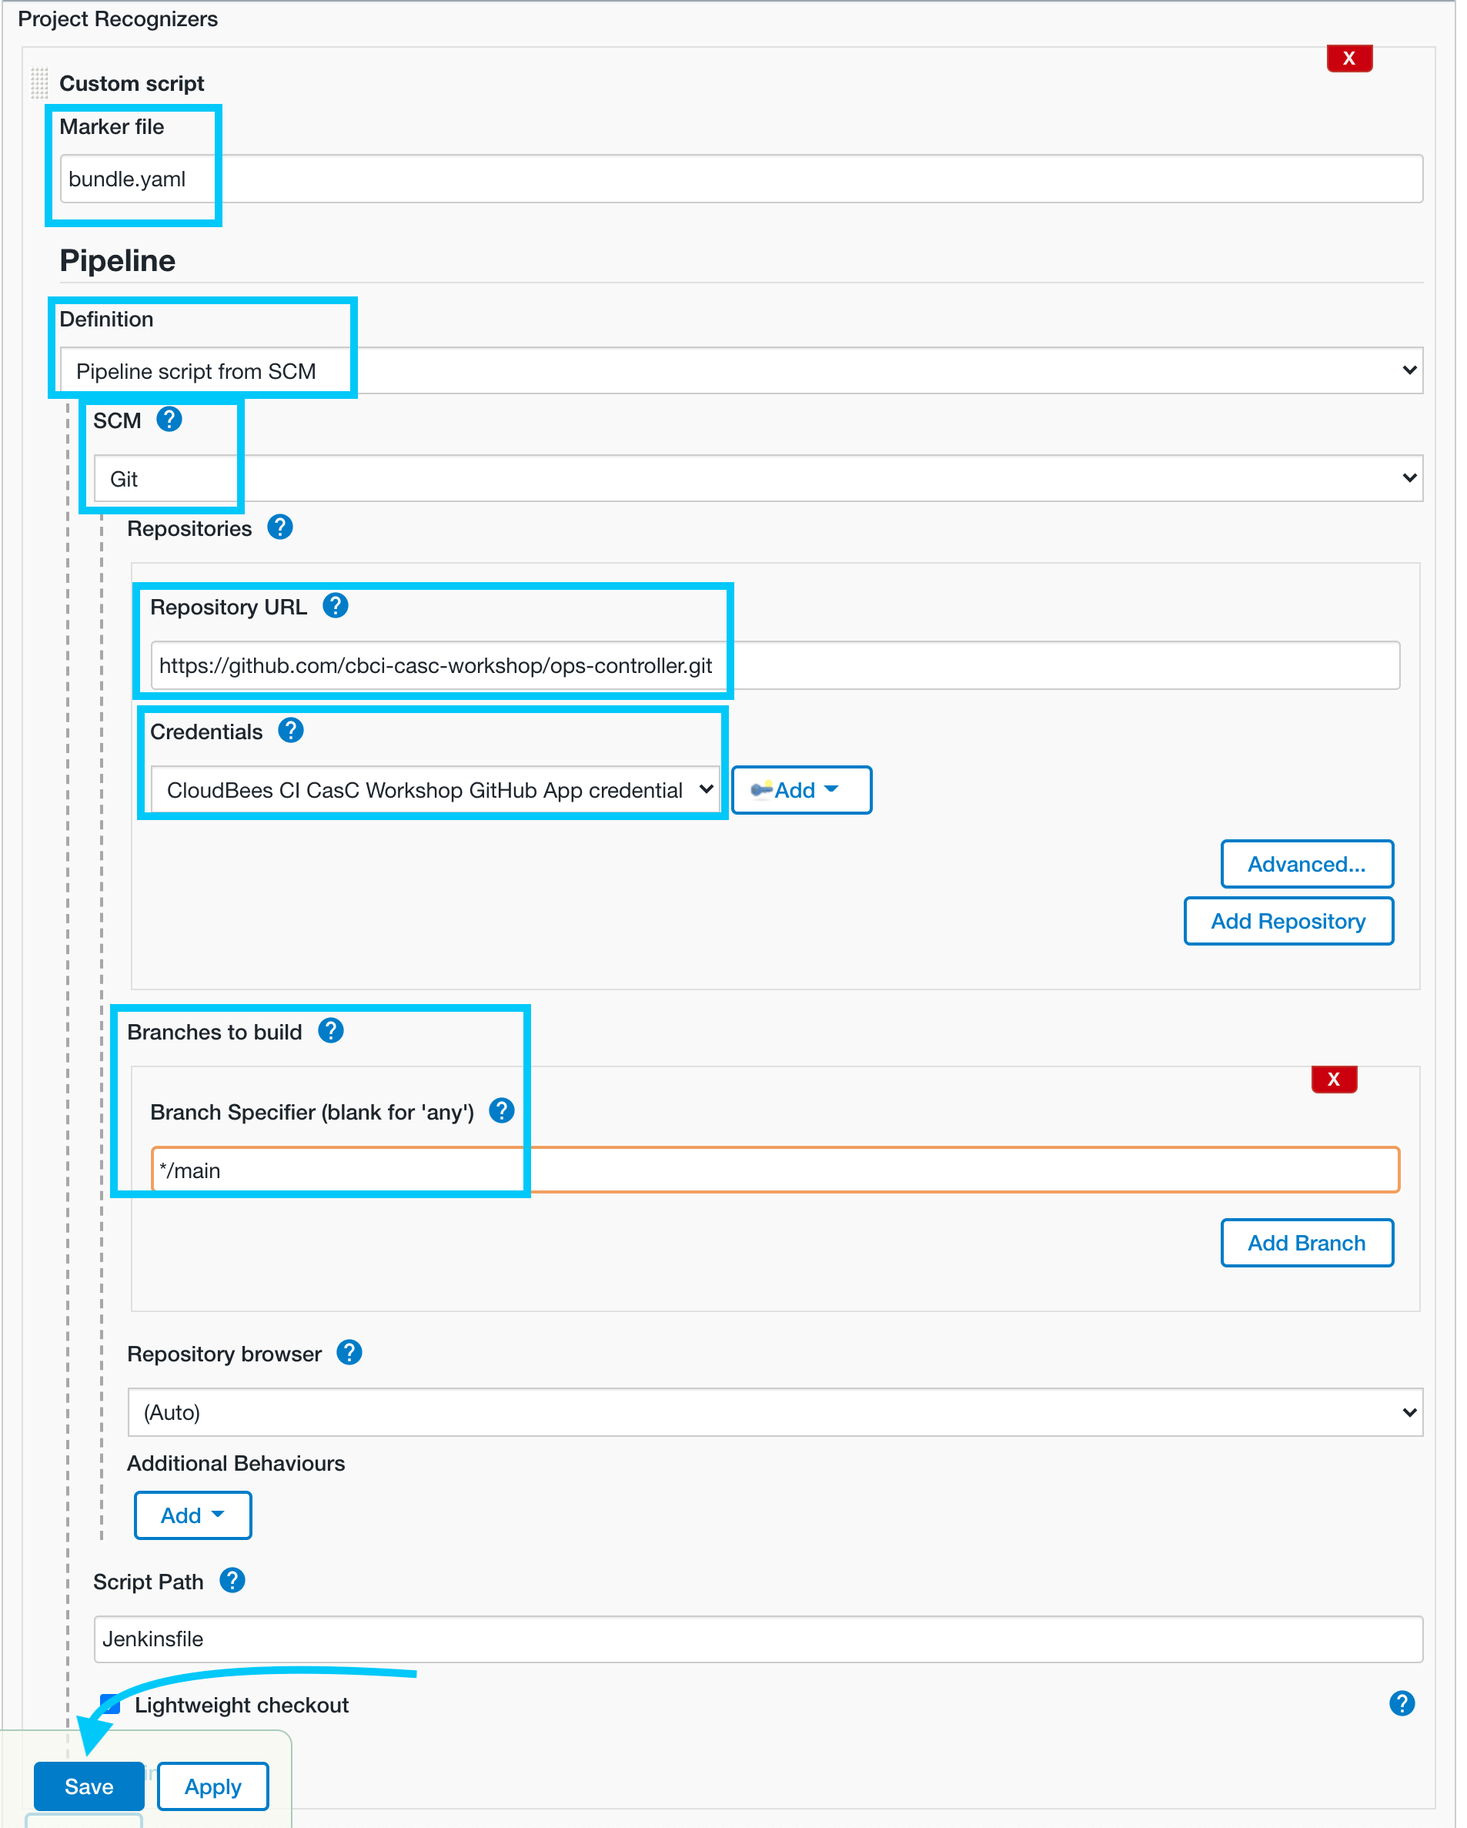
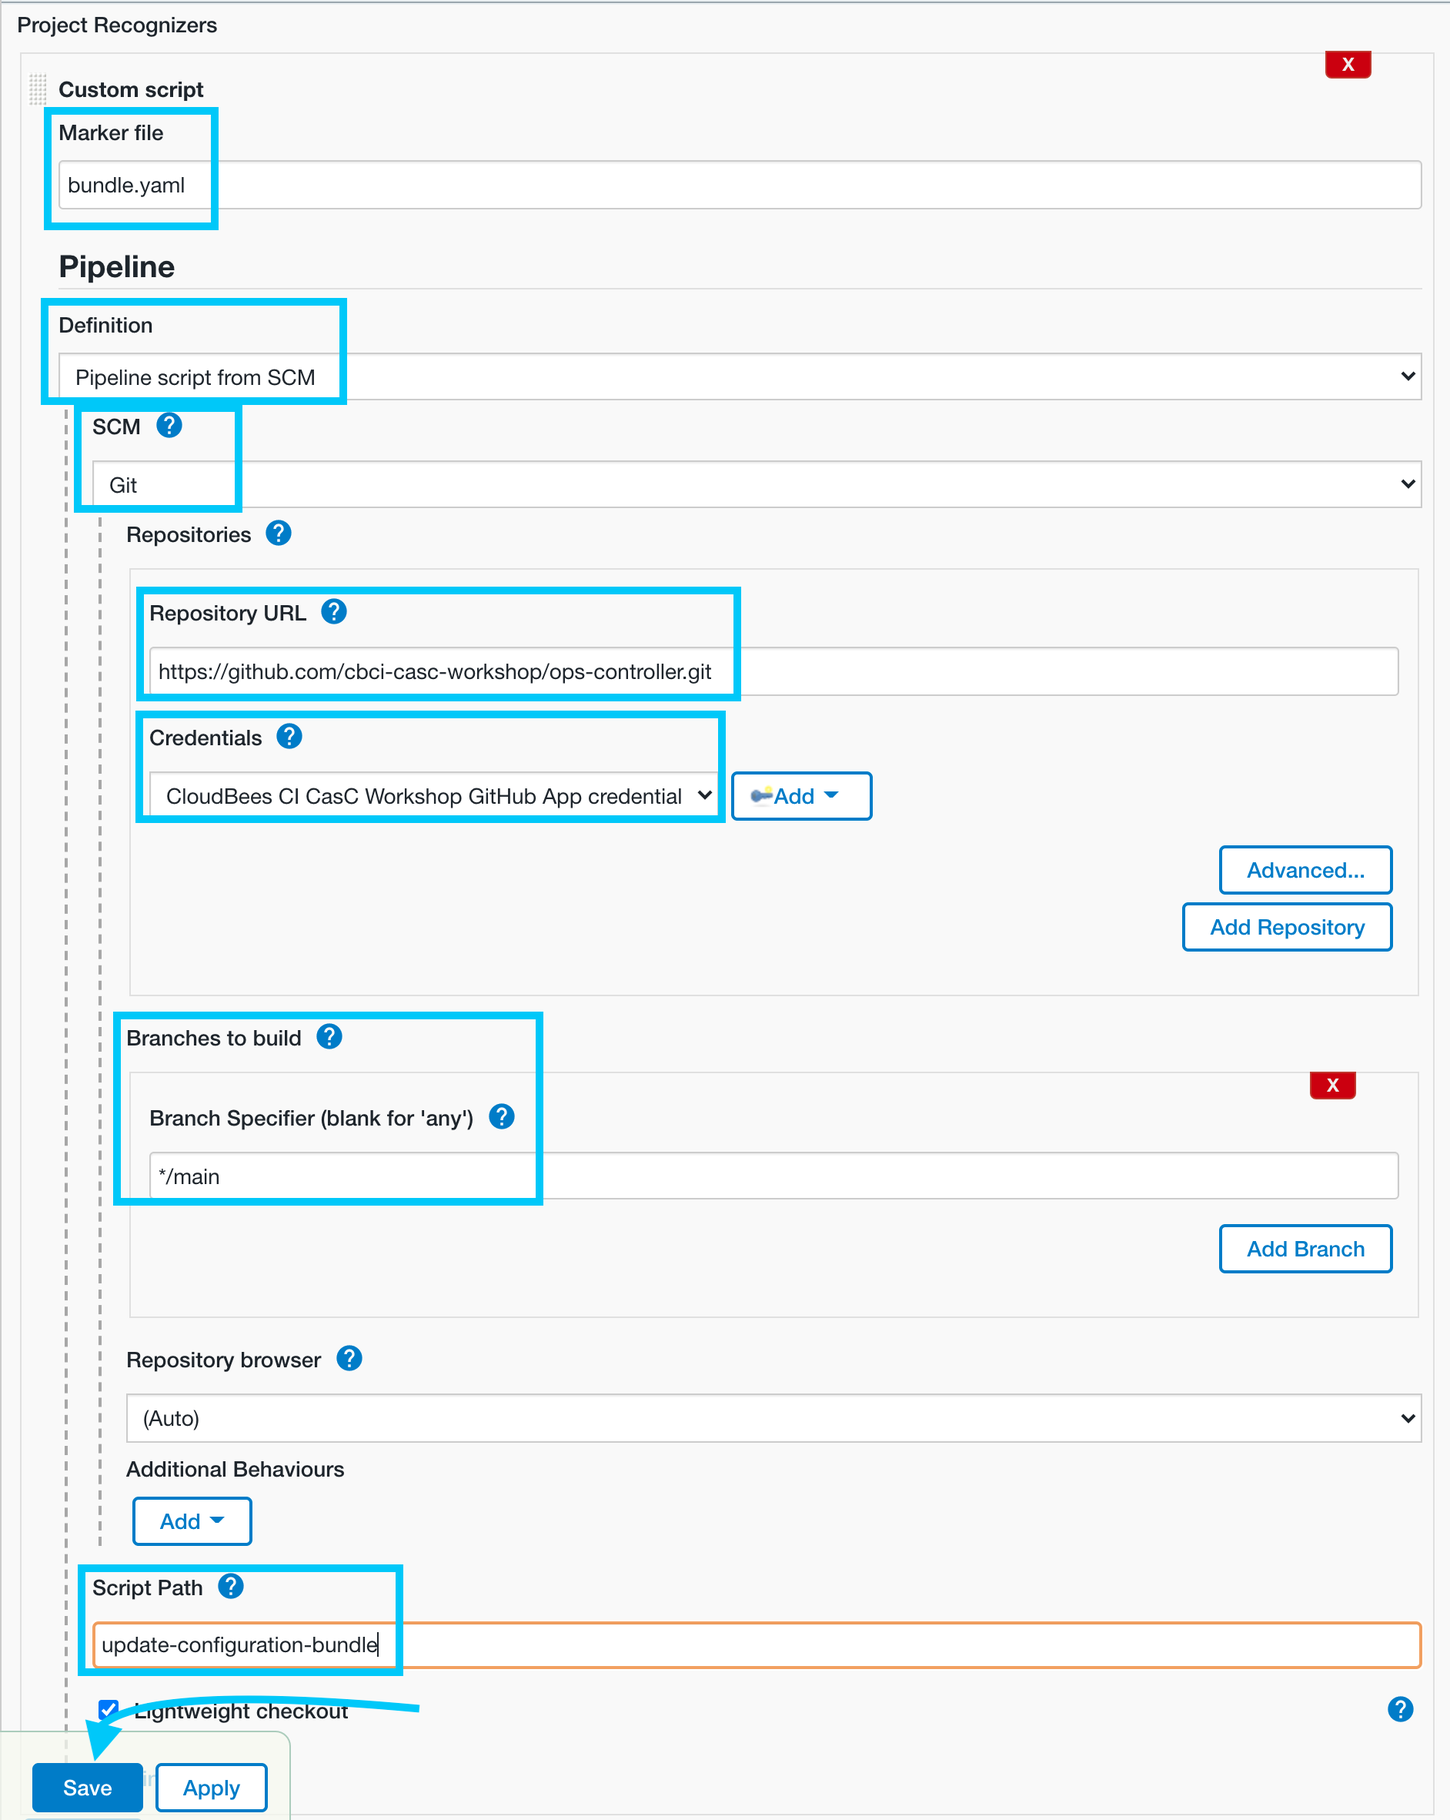
updates for advance comp lab

diff --git a/labs/cloudbees-ci-casc/content/labs/bundle-management.md b/labs/cloudbees-ci-casc/content/labs/bundle-management.md
@@ -32,11 +32,11 @@ This lab will provide an overview of how configuration bundles are managed via t
 
 ## GitOps for CloudBees CI Configuration Bundles
 
-In this lab we will create a Jenkins Pipeline to automatically update our controllers' configuration bundles whenever any changes are committed to the GitHub branch for the controller's configuration bundle.
+In this lab we will create a Jenkins Pipeline to automatically update our controllers' configuration bundles whenever any changes are committed to the GitHub branch for the controller's configuration bundle. We will actually be creating a [GitHub Organization Folder project](https://www.jenkins.io/doc/book/pipeline/multibranch/#organization-folders) with a [custom marker file](https://docs.cloudbees.com/docs/admin-resources/latest/pipelines/pipeline-as-code#custom-pac-scripts). Instead of using the typical `Jenkinsfile` we will use `bundle.yaml` as our custom marker file. By using the custom marker file with a GitHub Organization Folder project a Multibranch Pipeline project will automatically be created for all repositories in your workshop GitHub Organization when they have at least one branch containing a `bundle.yaml` file.
  
 1. Navigate to the `ops-controller` repository in your workshop GitHub Organization.
 2. Next click on the **Add file** button and then select **Create new file**. ![Create new file in GitHub](github-create-new-file.png?width=50pc)
-3. On the next screen name the new file `Jenkinsfile` and enter the following contents:
+3. On the next screen name the new file `update-configuration-bundle` and enter the following contents:
 ```groovy
 library 'pipeline-library'
 pipeline {
@@ -67,22 +67,23 @@ pipeline {
   }
 }
 ```
-4. On the first line you will see that we are using the Pipeline shared library defined in your Ops controller configuration bundle. The Pipeline shared library contains a number of Jenkins Kubernetes Pod templates that can be leveraged across all the controllers. We are utilizing the `kubectl.yml` Pod template so we can use the `kubectl cp` command to copy your `ops-controller` configuration bundle files into the `jcasc-bundles-store` directory on Operations Center. Once you have finished reviewing the `Jenkinsfile` contents, commit directly to your Ops controller branch. ![Commit Jenkinsfile](commit-jenkinsfile.png?width=50pc)
+4. On the first line you will see that we are using the Pipeline shared library defined in your Ops controller configuration bundle. The Pipeline shared library contains a number of Jenkins Kubernetes Pod templates that can be leveraged across all the controllers. We are utilizing the `kubectl.yml` Pod template so we can use the `kubectl cp` command to copy your `ops-controller` configuration bundle files into the `jcasc-bundles-store` directory on Operations Center. Once you have finished reviewing the `update-configuration-bundle` pipeline contents, commit directly to your Ops controller branch. ![Commit Jenkinsfile](commit-jenkinsfile.png?width=50pc)
 5. Navigate to the top level of your Ops controller and click the **Create a job** link. ![Create job link](create-job-link.png?width=50pc)
-6. Name the project **configuration-bundles**, select **GitHub Organization** as the project type and then click the **OK** button. ![Create job](create-job.png?width=50pc)
+6. Name the project the sames as your workshop GitHub Organization, select **GitHub Organization** as the project type and then click the **OK** button. ![Create job](create-job.png?width=50pc)
 7. On the GitHub Organization project configuration page click on the **Projects** tab and select ***CloudBees CI CasC Workshop GitHub App credential*** for the **Credentials** value. Note that the **Owner** input should match your workshop GitHub Organization name. ![Select GitHub App credentials](select-credentials.png?width=50pc)
 8. Next, scroll down to the **Project Recognizers** section and delete the **Pipeline Jenkinsfile** project recognizer. Then click the **Add** button and select **Custom script** as the project recognizer. ![Delete Jenkinsfile project recognizer](delete-project-recognizer.png?width=50pc)
 9. For the **Custom script** configuration enter `bundle.yaml` as the **Marker file** so pipeline jobs will only be created for repository branches with a `bundle.yaml` file. ![Custom script config](custom-script-config.png?width=50pc)
 10. For the **Definition** of the **Pipeline** select ***Pipeline script from SCM*** and then select ***Git*** as the **SCM**
 11. Enter the URL for your copy of the `ops-controller` repository in your workshop GitHub Organization as the **Repository URL** and select ***CloudBees CI CasC Workshop GitHub App credential*** for the **Credentials**. **TIP:** If you navigate to your GitHub `ops-controller` repository in your workshop GitHub Organization, and click on the Code button, you can then click on the clipboard icon to copy the Git URL for your repository. ![GitHub copy repo url](github-copy-repo-url.png?width=50pc)
-12. Under **Branches to build** change ***master*** to ***main*** for the **Branch Specifier**. All of the rest of the default values are fine, so click the **Save** button.
-13. Once the GitHub Organization scan is complete click on the the **Status** link in the left menu and you will see a Multibranch pipeline project for your `ops-controller` repository. ![Ops controller Multibranch pipeline](ops-controller-multibranch-job.png?width=50pc)
-14. Click on the `ops-controller` Multibranch pipeline project and you will see a pipeline job for the `main` branch of your `ops-controller` repository. ![Ops controller job](ops-controller-job.png?width=50pc)
-10. After the job has completed successfully, navigate to the top level of your Ops controller, click on the **Manage Jenkins** link in the left menu, and then click on the **CloudBees Configuration as Code bundle** **System Configuration** item. ![CasC Configuration link](casc-config-link.png?width=50pc)
-11. On the **CloudBees Configuration as Code bundle** click on the **Bundle update** tab and you should see that there is a bundle update available. ![CasC bundle update](casc-bundle-update.png?width=50pc)
-12. Click on the **Reload Configuration** button and then on the next screen click the **Yes** button to apply the bundle update. ![CasC bundle apply](casc-bundle-apply.png?width=50pc)
-13. After the updated configuration bundle is finished being applied return to the top level of your Ops controller and you will see that the **configuration-automation** folder has been added back. ![CasC bundle updated](casc-bundle-updated.png?width=50pc)
-14. Besides being an example of configuration bundle `items` configuration, another reason we created a folder is because it is considered a best practices to keep all of your Jenkins jobs organized with folders - some of the advantages of folders include fine grained access control and credentials, folder specific environment variables, the ability to restrict job types that can be create and easily moving jobs across controllers. Therefore we will move your GitHub Organization project into the **controller-automation** folder. To do so click on your GitHub Organization project and then click the **Move/Copy/Promote** link in the left menu. ![Move multibranch job](move-github-org-job.png?width=50pc)
-15. On the **Move/Copy/Promote** place your mouse cursor in the **Destination** select box next to **ops-controller**, select **controller-automation** from the drop down and then click the **Move** button. ![Select folder and move](select-folder-move.png?width=50pc)
-16. Once the move has completed successfully click on the **Close** button. ![Move close](move-close.png?width=50pc)
+12. Under **Branches to build** change ***master*** to ***main*** for the **Branch Specifier**. 
+13. For the **Script Path** replace `Jenkinsfile` with `update-configuration-bundle`. All of the rest of the default values are fine, so click the **Save** button.
+14. Once the GitHub Organization scan is complete click on the the **Status** link in the left menu and you will see a Multibranch pipeline project for your `ops-controller` repository. ![Ops controller Multibranch pipeline](ops-controller-multibranch-job.png?width=50pc)
+15. Click on the `ops-controller` Multibranch pipeline project and you will see a pipeline job for the `main` branch of your `ops-controller` repository. ![Ops controller job](ops-controller-job.png?width=50pc)
+16. After the job has completed successfully, navigate to the top level of your Ops controller, click on the **Manage Jenkins** link in the left menu, and then click on the **CloudBees Configuration as Code bundle** **System Configuration** item. ![CasC Configuration link](casc-config-link.png?width=50pc)
+17. On the **CloudBees Configuration as Code bundle** click on the **Bundle update** tab and you should see that there is a bundle update available. ![CasC bundle update](casc-bundle-update.png?width=50pc)
+18. Click on the **Reload Configuration** button and then on the next screen click the **Yes** button to apply the bundle update. ![CasC bundle apply](casc-bundle-apply.png?width=50pc)
+19. After the updated configuration bundle is finished being applied return to the top level of your Ops controller and you will see that the **configuration-automation** folder has been added back. ![CasC bundle updated](casc-bundle-updated.png?width=50pc)
+20. Besides being an example of configuration bundle `items` configuration, another reason we created a folder is because it is considered a best practice to keep all of your Jenkins jobs organized with folders - some of the advantages of folders include fine grained access control and credentials, folder specific environment variables, the ability to restrict job types that can be create and easily moving or copying jobs across controllers. Therefore we will move your GitHub Organization project into the **controller-automation** folder. To do so click on your GitHub Organization project and then click the **Move/Copy/Promote** link in the left menu. ![Move multibranch job](move-github-org-job.png?width=50pc)
+21. On the **Move/Copy/Promote** place your mouse cursor in the **Destination** select box next to **ops-controller**, select **controller-automation** from the drop down and then click the **Move** button. ![Select folder and move](select-folder-move.png?width=50pc)
+22. Once the move has completed successfully click on the **Close** button. ![Move close](move-close.png?width=50pc)
 

diff --git a/labs/cloudbees-ci-casc/content/labs/advanced-bundle-composition.md b/labs/cloudbees-ci-casc/content/labs/advanced-bundle-composition.md
@@ -1,5 +1,5 @@
 ---
-title: "Advanced CloudBees CI Configuration Bundle Composition"
+title: "CloudBees CI Configuration Bundle Inheritance and Advanced Structure"
 chapter: false
 weight: 4
 --- 
@@ -10,7 +10,7 @@ This lab will explore more advanced aspects of bundle composition to include bun
 
 ## Bundle Inheritance
 
-Bundle inheritance allows you to easily share common configuration across numerous controllers. In this lab we will update your Ops controller bundle to extend a parent bundle with common configuration and plugins to be shared across all of your organizations controllers. First we will review the contents of the parent `base` bundle that has already been created and then we will update your Ops controller bundle to use the `base` bundle as a parent bundle. The `base` bundle will include Jenkins configuration that enforces best practices across all of the controllers in the CloudBees CI cluster and a common set of plugins to be used across all controllers.
+Bundle inheritance allows you to easily share common configuration across numerous controllers. In this lab we will update your Ops controller bundle to extend a parent bundle providing common configuration and plugins to be shared across all of your organizations controllers. First we will review the contents of the parent `base` bundle that has already and then we will update your Ops controller bundle to use the `base` bundle as a parent bundle. The `base` bundle will include Jenkins configuration that enforces best practices across all of the controllers in the CloudBees CI cluster and a common set of plugins to be used across all controllers.
 
 1. First we will take a look at the `bundle.yaml` for the `base` bundle (also available on GitHub at https://github.com/cloudbees-days/parent-configuration-bundle/blob/main/bundle.yaml):
 ```yaml
@@ -65,6 +65,14 @@ unclassified:
               credentialsId: "cloudbees-ci-workshop-github-app"
               repoOwner: "cbci-casc-workshop"
               repository: "pipeline-library"
+cloudbees-pipeline-policies:
+  config:
+    policies:
+    - action: "fail"
+      name: "Timeout policy"
+      rules:
+      - entirePipelineTimeoutRule:
+          maxTime: 30
   hibernationConfiguration:
     activities:
     - "build"
@@ -72,11 +80,47 @@ unclassified:
     enabled: true
     gracePeriod: 2400
 ```
-3. Finally, let's review the `plugins.yaml` that will provide a base set of plugins for all the controllers in our CloudBees CI cluster:
-```yaml
+3. In addition to providing a common Jenkins pipeline shared library across all controllers, the parent `jenkins.yaml` enforces best practices to include: 
+  - Setting the number of executors to 0 on controllers, as you should never execute jobs directly on controller, rather you should always use agents.
+  - Enforcing a project naming strategy.
+  - Setting the quite period to 0 to maximize speed of builds and utilization of ephemeral Kubernetes agents.
+  - Configuring a global build discard policy to reduce controller disk usage. Read more about [best strategies for disk space management](https://support.cloudbees.com/hc/en-us/articles/215549798-Best-Strategy-for-Disk-Space-Management-Clean-Up-Old-Builds).
+  - Enabling CloudBees SCM Reporting notifications.
+  - Setting Pipeline performance.
+  - Providing a standard Pipeline shared library across all controllers.
+  - Enforcing a standard global Pipeline timeout using [CloudBees Pipeline Policies](https://docs.cloudbees.com/docs/admin-resources/latest/pipelines/pipeline-policies).
+  - Enabling [controller hibernation](https://docs.cloudbees.com/docs/cloudbees-ci/latest/cloud-admin-guide/managing-masters#_hibernation_in_managed_masters) to reduce infrastructure costs - controllers will only run when they need to.
 
+4. Finally, let's review the `plugins.yaml` that will provide a base set of plugins for all the controllers in our CloudBees CI cluster:
+```yaml
+plugins:
+- id: antisamy-markup-formatter
+- id: cloudbees-casc-api
+- id: cloudbees-github-reporting
+- id: cloudbees-groovy-view
+- id: cloudbees-monitoring
+- id: cloudbees-pipeline-policies
+- id: cloudbees-prometheus
+- id: cloudbees-slack
+- id: cloudbees-template
+- id: cloudbees-view-creation-filter
+- id: cloudbees-workflow-template
+- id: cloudbees-workflow-ui
+- id: configuration-as-code
+- id: git
+- id: github-branch-source
+- id: managed-master-hibernation
+- id: notification-api
+- id: operations-center-cloud
+- id: operations-center-notification
+- id: pipeline-event-step
+- id: pipeline-model-extensions
+- id: pipeline-stage-view
+- id: warnings-ng
+- id: workflow-aggregator
+- id: workflow-cps-checkpoint
 ```
-4. Now that we have reviewed the contents of the `base` bundle we will update your Ops controller bundle to use it as a parent bundle. First 
+5. Now that we have reviewed the contents of the `base` bundle we will update your Ops controller bundle to use it as a parent bundle. However 
 
 ## Organizing Configuration Bundles with Folder and Multiple Files
 

diff --git a/labs/cloudbees-ci-casc/content/labs/bundle-composition.md b/labs/cloudbees-ci-casc/content/labs/bundle-composition.md
@@ -60,7 +60,7 @@ unclassified:
     durabilityHint: PERFORMANCE_OPTIMIZED
   globallibraries:
     libraries:
-    - defaultVersion: "master"
+    - defaultVersion: "main"
       name: "pipeline-library"
       retriever:
         modernSCM:
@@ -130,7 +130,7 @@ As you can see from the composition overview above, the YAML in the different co
 8. On the next screen click on the **Properties** tab, then enter `GITHUB_ORGANIZATION={YOUR_WORKSHOP_GITHUB_ORGANIZATION}` in the **Environment Variables** text area, and then click the **Save** button. ![Configure folder](configure-folder.png?width=50pc) 
 9. Navigate back to the top-level of your Ops controller and you should see the new **controller-automation** folder. Click on the **Manage Jenkins** link in the left menu. ![Folder created](folder-created.png?width=50pc) 
 10. On the **Manage Jenkins** page click on **CloudBees Configuration as Code bundle** under the **System Configuration** section. ![CloudBees CasC link](cloudbees-casc-link.png?width=50pc) 
-11. Next, on the **CloudBees Configuration as Code bundle** page, click on the *visualize* link for the `plugin-catalog.yaml` **Filename**. A [plugin catalog](https://docs.cloudbees.com/docs/admin-resources/latest/plugin-management/configuring-plugin-catalogs) is used to widen the acceptable scope of plugins beyond those defined by the CloudBees Assurance Program (CAP) and since the **Pipeline Utility Steps** is not in CAP we must create a plugin catalog that includes that plugin so we may install it on our controller. ![Plugin Catalog visualize link](plugin-catalog-visualize-link.png?width=50pc) 
+11. Next, on the **CloudBees Configuration as Code bundle** page under the **Current configuration** tab, click on the *visualize* link for the `plugin-catalog.yaml` **Filename**. A [plugin catalog](https://docs.cloudbees.com/docs/admin-resources/latest/plugin-management/configuring-plugin-catalogs) is used to widen the acceptable scope of plugins beyond those defined by the CloudBees Assurance Program (CAP) and since the **Pipeline Utility Steps** is not in CAP we must create a plugin catalog that includes that plugin so we may install it on our controller. ![Plugin Catalog visualize link](plugin-catalog-visualize-link.png?width=50pc) 
 12. A new browser page will open in a new tab or window with the auto-generated contents of a Plugin Catalog with the following contents:
 ```yaml
 type: plugin-catalog
